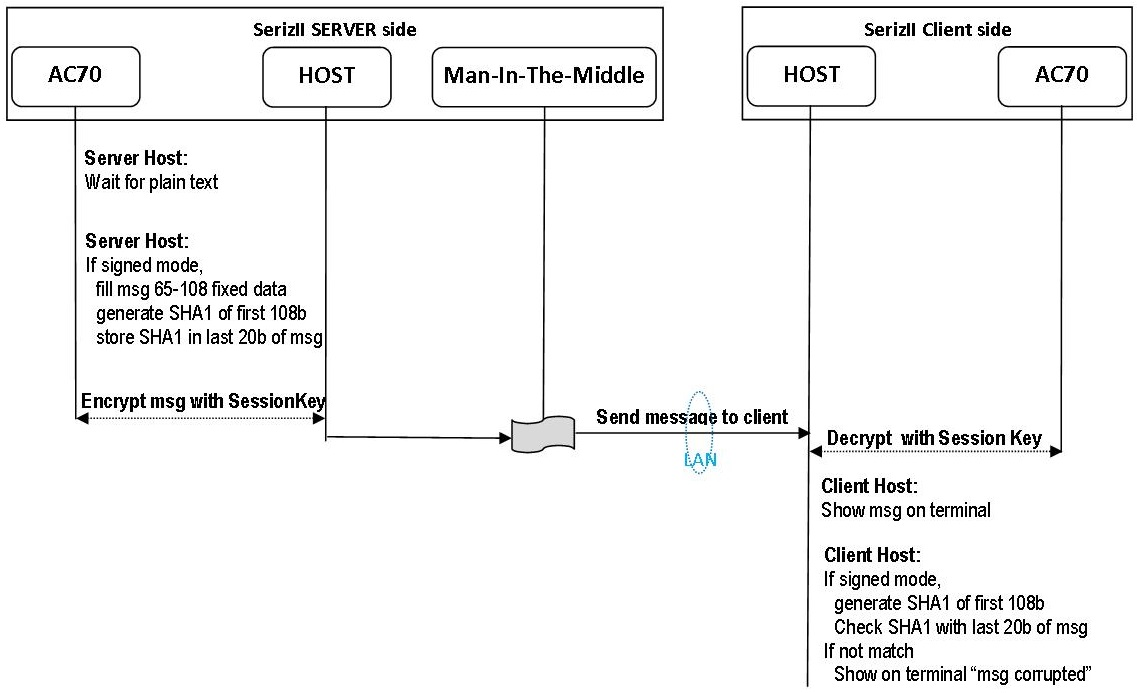
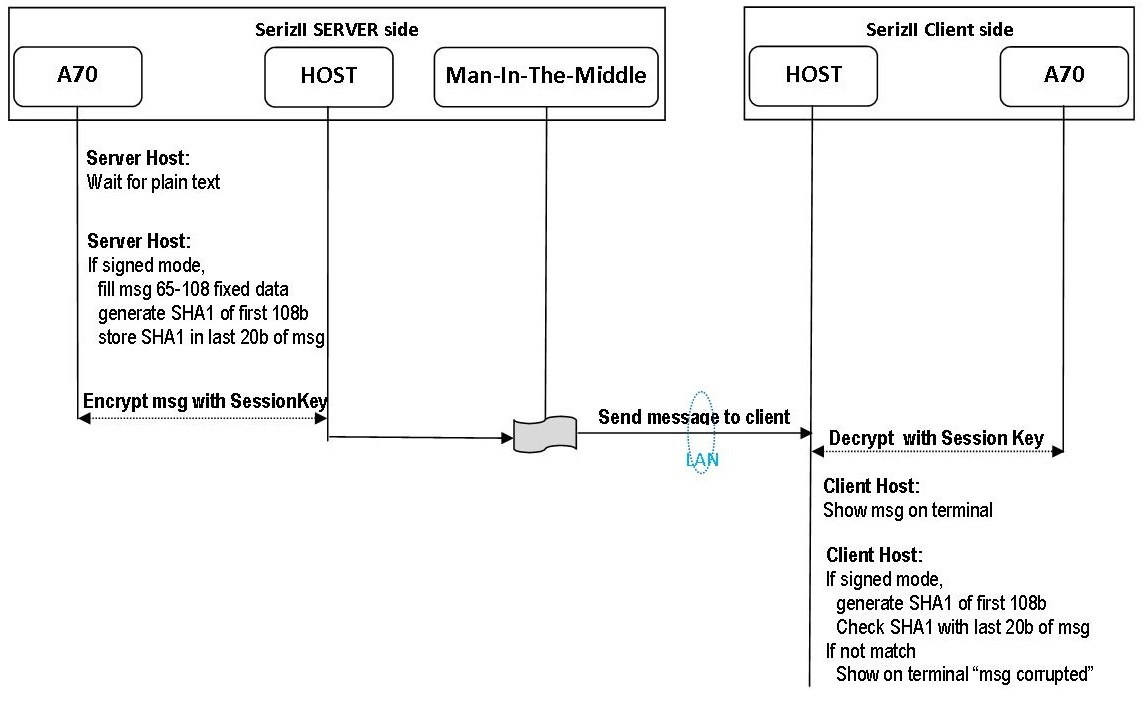
release 1.0.0B

Changed region(s): [[0.0, 0.0, 1.0, 1.0], [0.2155, 0.0303, 0.3694, 0.1212], [0.0923, 0.0606, 0.1231, 0.0909]]

diff --git a/source/conf.py b/source/conf.py
@@ -1,6 +1,6 @@
 # -*- coding: utf-8 -*-
 #
-# SerizII_AC70M documentation build configuration file, created by
+# SerizII_A70CM documentation build configuration file, created by
 # sphinx-quickstart on Mon Sep 15 11:59:03 2014.
 #
 # This file is execfile()d with the current directory set to its containing dir.
@@ -40,7 +40,7 @@ source_suffix = '.rst'
 master_doc = 'index'
 
 # General information about the project.
-project = u'SerizII_AC70M'
+project = u'SerizII_A70CM'
 copyright = u'2014, Silica'
 
 # The version info for the project you're documenting, acts as replacement for
@@ -164,7 +164,7 @@ html_static_path = ['_static']
 #html_file_suffix = None
 
 # Output file base name for HTML help builder.
-htmlhelp_basename = 'SerizII_AC70Mdoc'
+htmlhelp_basename = 'SerizII_A70CMdoc'
 
 
 # -- Options for LaTeX output --------------------------------------------------
@@ -183,7 +183,7 @@ latex_elements = {
 # Grouping the document tree into LaTeX files. List of tuples
 # (source start file, target name, title, author, documentclass [howto/manual]).
 latex_documents = [
-  ('index', 'SerizII_AC70M.tex', u'SerizII\\_AC70M Documentation',
+  ('index', 'SerizII_A70CM.tex', u'SerizII\\_A70CM Documentation',
    u'Silica', 'manual'),
 ]
 
@@ -213,7 +213,7 @@ latex_documents = [
 # One entry per manual page. List of tuples
 # (source start file, name, description, authors, manual section).
 man_pages = [
-    ('index', 'serizii_ac70m', u'SerizII_AC70M Documentation',
+    ('index', 'serizii_a70cm', u'SerizII_A70CM Documentation',
      [u'Silica'], 1)
 ]
 
@@ -227,8 +227,8 @@ man_pages = [
 # (source start file, target name, title, author,
 #  dir menu entry, description, category)
 texinfo_documents = [
-  ('index', 'SerizII_AC70M', u'SerizII_AC70M Documentation',
-   u'Silica', 'SerizII_AC70M', 'One line description of project.',
+  ('index', 'SerizII_A70CM', u'SerizII_A70CM Documentation',
+   u'Silica', 'SerizII_A70CM', 'One line description of project.',
    'Miscellaneous'),
 ]
 

diff --git a/source/PrjFiles.rst b/source/PrjFiles.rst
@@ -6,8 +6,8 @@ Firmware specification
 Firmware overview
 -----------------
 
-| The Babylon AC70M demo firmware has been developed using **AC70M Host API library** and **SCI2C library** and performs RSA and AES-CBC encryption/decryption functions
-| It is designed only for evaluation purposes and to demonstrate how to use AC70M API functions. 
+| The Babylon A70CM demo firmware has been developed using **A70CM Host API library** and **SCI2C library** and performs RSA and AES-CBC encryption/decryption functions
+| It is designed only for evaluation purposes and to demonstrate how to use A70CM API functions. 
 | End-user applications can use these examples to perform encryption/decryption functions, but it's mandatory that customers follow standard specifications to improve security data exchange. 
 | Some of these specification can be found, for example, at **NIST** National Institute of Standards and Techology, section Computer Security Resource Center `CSRC <http://csrc.nist.gov/>`_
 | 
@@ -16,7 +16,7 @@ Firmware overview
 Firmware restrictions
 ---------------------
 
-| The Babylon AC70M demo firmware assumes the following restrictions:
+| The Babylon A70CM demo firmware assumes the following restrictions:
 | • Authentication Process assumes both Client than Server has same RSA certificate inside. No Certificate exchange is performed
 | • The demo program use default NXP Certificate for Autentication Process
 | • Authentication process is started from Client and uses a simple AES KeyA-KeyB exchange check. 
@@ -47,12 +47,12 @@ By using two PC terminal software connected to Babylon board (see :ref:`saset`),
 Operation mode macros
 ---------------------
 
-See at file "task_ac70.h" in project folder "\\AC70M\\inc"
+See at file "task_ac70.h" in project folder "\\A70CM\\inc"
 You can find these macros
 
 ::
 
- #define AC70_TASK 0   //enable original main_task for AC70M Host Api demo application 
+ #define AC70_TASK 0   //enable original main_task for A70CM Host Api demo application 
 
  #if AC70_TASK			//if Host api demo, no other task can be enabled
   #define IP_TASK 0
@@ -74,7 +74,7 @@ You can find these macros
  #endif
 
  
-Macro **AC70_TASK** do not set to 1, only for AC70M API demo
+Macro **AC70_TASK** do not set to 1, only for A70CM API demo
 
 Macro **IP_TASK** can be set 1 for LAN operation. 
 
@@ -102,10 +102,10 @@ You can also find these other macros:
 Project structure
 -----------------
 
-The project "lwip_tcpecho_freertos" include the following specifing folders for AC70M application
+The project "lwip_tcpecho_freertos" include the following specifing folders for A70CM application
 
 • **Babylon** – main file folder
-	• **AC70M** folder Host API and SCI2C library
+	• **A70CM** folder Host API and SCI2C library
 	• **board_dep** folder SHA1 HostCrypto source files and other include file 
 	• **babylon.c** source file Main Application Tasks
 	• **AC70_enc_dec.c** source file AC70 host API interface functions
@@ -122,7 +122,7 @@ The project "lwip_tcpecho_freertos" include the following specifing folders for 
 Brief of firmware performance
 -----------------------------
 
-| The firmware will include a minimal example how to initialize the AC70M and use Host API functions. 
+| The firmware will include a minimal example how to initialize the A70CM and use Host API functions. 
 | It include also the source files of these Host API, the source files of SCI2C library and a layer to interface main application tasks with API functions. 
 | In Stand Alone operation mode, there is only one Main Menu that will configure both Server and Client
 | Also the results of all operation (Settings, Authentication, Message exchange) are shown an same terminal window
@@ -141,7 +141,7 @@ Project and tools download
 --------------------------
 
 Instructions for tools and firmware installation can be found at Silica ArchiTech page under SerizII project section. Registration is needed to access at download section.
-Click `here <http://www.silica.com/architech.html>`_ to go to ArchiTech main page.
+Click `here <http://architechboards.org/>`_ to go to ArchiTech main page.
 
 
 

diff --git a/source/index.rst b/source/index.rst
@@ -1,4 +1,4 @@
-.. SerizII_AC70M documentation master file, created by
+.. SerizII_A70CM documentation master file, created by
    sphinx-quickstart on Mon Sep 15 11:59:03 2014.
    You can adapt this file completely to your liking, but it should at least
    contain the root `toctree` directive.
@@ -7,11 +7,11 @@ Welcome to Babylon's board documentation!
 =========================================
 
 
-:Version: 1.00
+:Version: 1.00B
 :Copyright: (C)2014 Silica an Avnet company
 :Date: 15 september 2014
 
-NXP Secure Authentication Microcontroller AC70M
+NXP Secure Authentication Microcontroller A70CM
 -----------------------------------------------
 
 .. image:: _static/nxplogo.gif
@@ -24,16 +24,16 @@ NXP Secure Authentication Microcontroller AC70M
 **INTRODUCTION**
 ----------------
 
-The Silica SerizII with AC70M add-on board is designed to evaluate NXP A7001 ADPU secure module.
-The firmware will perform a sample demo application between LPC4350 cpu, AC70M Host API library and SCI2C library.
-It show the use of main basic AC70M API functions for AES encryption/decription (using CBC mode) and a sample of authenticatio process between Server and Client. In addition, a Man-In-The-Middle simulator is implemented to change data and check security results.
+The Silica SerizII with A70CM add-on board is designed to evaluate NXP A7001 ADPU secure module.
+The firmware will perform a sample demo application between LPC4350 cpu, A70CM Host API library and SCI2C library.
+It show the use of main basic A70CM API functions for AES encryption/decription (using CBC mode) and a sample of authenticatio process between Server and Client. In addition, a Man-In-The-Middle simulator is implemented to change data and check security results.
 The firmware can be compiled in many different functionallity by setting appropriate macros define: 
 
 ============ =================================================================================
 Mode	     Main features
 ============ =================================================================================
-Stand Alone  Use only 1 SerizII board with AC70M add-on. Messages are exchanged between 
-             the two AC70M onboard using RTOS queue. Man-In-The-Middle simulator
+Stand Alone  Use only 1 SerizII board with A70CM add-on. Messages are exchanged between 
+             the two A70CM onboard using RTOS queue. Man-In-The-Middle simulator
 LAN Client   Use on SerizII Babylon client board. 
              The messages are exchanged to Server using UDP queue
 LAN Server   Use on SerizII Babylon server board. 
@@ -52,7 +52,7 @@ LPCXpresso 6-1-2 free version. For installation and configuration of the project
 Document references
 *******************
 
-The AC70M reference documentation is available only under NDA agreement. Contact Silica for more informations about.
+The A70CM reference documentation is available only under NDA agreement. Contact Silica for more informations about.
 
 
 Contents:

diff --git a/source/using.rst b/source/using.rst
@@ -2,7 +2,7 @@
 
 .. _gs:
 
-Getting started Babylon AC70M
+Getting started Babylon A70CM
 -----------------------------
 
 This chapter contain a brief of **Stand Alone operation mode** of Babylon application. More detail can be found in :ref:`more`
@@ -36,7 +36,7 @@ The VCOMM connected to the Micro USB is activated only after the Babylon has com
 
 .. image:: _static/Starting_sa.jpg
 
-On the instance connected to MINI USB (FDTI), after the initialization is complete, the babylon AC70M main menu will be displayed
+On the instance connected to MINI USB (FDTI), after the initialization is complete, the babylon A70CM main menu will be displayed
 
 .. image:: _static/main_menu_sa.jpg
 
@@ -120,7 +120,7 @@ After autentication process ends succesfully, by selecting to send a message:
 .. note:
 
  | **The AES encryption key used for encryption is exchanged during the authentication phase.**
- | **send/receive message use RTOS queue from/to the two AC70M mounted on add-on board**
+ | **send/receive message use RTOS queue from/to the two A70CM mounted on Babylon add-on board**
  
 
 .. image:: _static/send2.jpg
@@ -166,7 +166,7 @@ There VCOMM are immediate active as soon as the powered on.
 
 The VCOMM connected to the Micro USB is activated only after the Babylon Server SerizII has completed its initialization; wait to open this port till the SerizII has completed initialization (about 10” after power on).
 
-On both instance connected to the IP Server and IP Client, after the initialization is complete, the AC70M main menu will be displayed
+On both instance connected to the IP Server and IP Client, after the initialization is complete, the A70CM main menu will be displayed
 
 .. image:: _static/full.jpg
 

diff --git a/source/qs.rst b/source/qs.rst
@@ -5,7 +5,7 @@
 Quick start guide
 -----------------
 
-This guide will provide instructions to install the development environment and all the libraries needed to compile and debug the demo firmware SerizII AC70M
+This guide will provide instructions to install the development environment and all the libraries needed to compile and debug the demo firmware SerizII A70CM
 The main steps are:
 
 - Install and register LPCXpresso IDE
@@ -83,10 +83,10 @@ Download emWIn (not included for License issues) http://www.lpcware.com/system/f
 
 *(it is important to follow the exact directory path, inside the project some files have relative reference to files included into the LPCOpen_platform_v0.51, any path change requires changes in this references)*
 
-Run the Babylon AC70M demo
+Run the Babylon A70CM demo
 **************************
 
-Open LPCXpresso6, create a workspace **SerizII_AC70M_LPC** in the directory C:\\nxp\\LPCOpen_platform_v0.51\\applications\\lpc18xx_43xx\\examples\\
+Open LPCXpresso6, create a workspace **SerizII_A70CM_LPC** in the directory C:\\nxp\\LPCOpen_platform_v0.51\\applications\\lpc18xx_43xx\\examples\\
 
 *(it is important to follow the exact directory path, inside the project some files have relative reference to files included into the LPCOpen_platform_v0.51, any path change requires changes in this references)*
 
@@ -150,6 +150,6 @@ The executable is downloaded into flash
 .. image:: _static/qs/flash_write.jpg
 
 Switch off SerizII, unconnect the emulator;
-Mount on the SerizII AC70M add-on board, then follow :ref:`gs` to start evaluation
+Mount on the SerizII A70CM (Babylon board) add-on board, then follow :ref:`gs` to start evaluation
 
 

diff --git a/source/flow.rst b/source/flow.rst
@@ -5,7 +5,7 @@
 More about firmware
 -------------------
 
-In this chapter you can find a flow of main functionallity of Babylon AC70M firmware.
+In this chapter you can find a flow of main functionallity of Babylon A70CM firmware.
 The description is referred to Stand-Alone operation mode. 
 
 *For LAN mode, remember that Server and Client are two separate boards*
